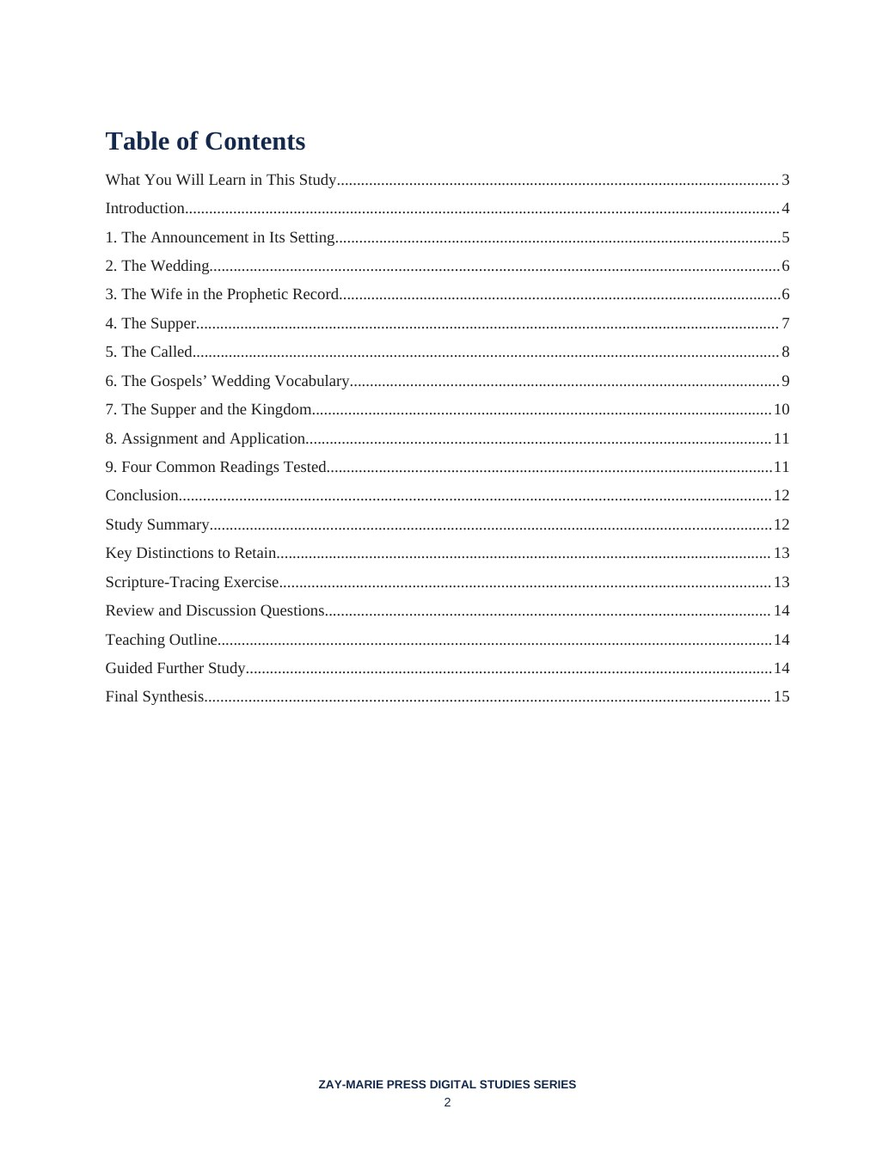
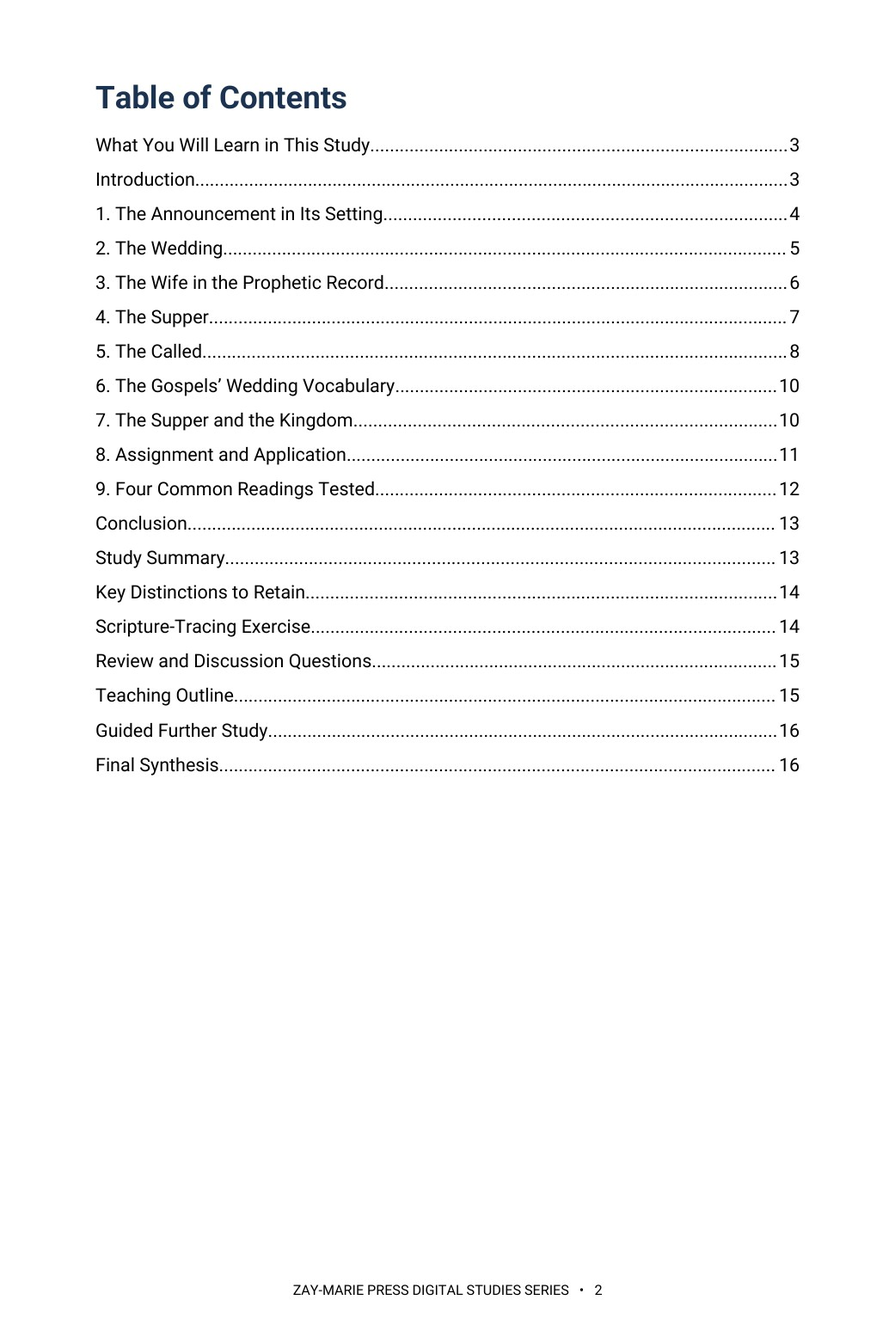
Study 64: rebuilt in Roboto at 10 pt, 17 pages; previews and trackers updated
Interior rebuilt to the current page geometry from the Sep 28 PDF: bulleted
What You Will Learn, five boxed callouts, reader-facing wording, and the
Body-absent-from-Revelation wording in section 5.3 and the Conclusion.
site.js 64:17, page text 17 Pages, previews 2, 3 and 5 re-rendered at
1041x1562. Retrofit Plan v1.86, Audit v1.180, CLAUDE.md pointer updated.

Claude-Session: https://claude.ai/code/session_01HC7bs9KYP2scp4hCL6DkTp

diff --git a/study-64-the-wedding-and-the-wedding-supper.html b/study-64-the-wedding-and-the-wedding-supper.html
@@ -1,13 +1,13 @@
 <!doctype html>
-<html lang="en"><head><meta charset="utf-8"><meta name="viewport" content="width=device-width,initial-scale=1"><title>The Wedding and the Wedding Supper | Zay-Marie Press</title><meta name="description" content="Study 64 examines Revelation 19:6–10 — the announcement of the marriage of the Lamb, the wife, the marriage supper, and those who are called — and asks how the text keeps them distinct. Preview the 16-page digital study."><link rel="stylesheet" href="styles.css?v=20260921-4"><link rel="icon" type="image/png" href="assets/zay-marie-press-favicon.png"><style>
+<html lang="en"><head><meta charset="utf-8"><meta name="viewport" content="width=device-width,initial-scale=1"><title>The Wedding and the Wedding Supper | Zay-Marie Press</title><meta name="description" content="Study 64 examines Revelation 19:6–10 — the announcement of the marriage of the Lamb, the wife, the marriage supper, and those who are called — and asks how the text keeps them distinct. Preview the 17-page digital study."><link rel="stylesheet" href="styles.css?v=20260921-4"><link rel="icon" type="image/png" href="assets/zay-marie-press-favicon.png"><style>
 .study-detail-page{background:#fff;color:#252525}.detail-hero{background:linear-gradient(135deg,#f8f5ec,#e3ece2);padding:58px 0}.detail-hero-grid{display:grid;grid-template-columns:minmax(250px,.72fr) minmax(0,1.28fr);gap:58px;align-items:center}.detail-cover{max-width:390px;margin:auto}.detail-cover img{display:block;width:100%;height:auto;box-shadow:0 14px 36px rgba(8,45,69,.18)}.detail-hero h1{font-size:clamp(2.7rem,5vw,4.7rem);line-height:1.02;margin:8px 0 10px;color:#143823}.detail-subtitle{font-family:Georgia,serif;font-size:1.35rem;font-weight:700;color:#082d45;margin:0 0 7px}.detail-kicker{font-family:Georgia,serif;font-style:italic;font-size:1.05rem;color:#4a4a44;margin:0 0 22px}.detail-copy{font-size:1.08rem;line-height:1.65;max-width:760px}.detail-buyline{display:flex;align-items:center;gap:18px;flex-wrap:wrap;margin-top:25px}.detail-price{font-family:Georgia,serif;font-size:2rem;font-weight:700;color:#143823}.detail-format,.preview-card .page-no{font-family:Arial,sans-serif;font-size:.76rem;font-weight:700;letter-spacing:.1em;text-transform:uppercase;color:#176b3a}.detail-button{display:inline-block;background:#176b3a;color:#fff;padding:13px 22px;font-family:Arial,sans-serif;font-size:.8rem;font-weight:700;letter-spacing:.07em;text-transform:uppercase}.detail-button.pending{opacity:.72;cursor:default}.detail-section{padding:66px 0}.detail-section.soft{background:#f6f7f2}.detail-section.cream{background:#faf8f2}.detail-section h2{color:#143823;margin:6px 0 18px;font-size:clamp(2rem,3.4vw,3rem)}.detail-section .lead{max-width:920px;font-size:1.1rem;line-height:1.62}.study-distinction{max-width:920px;margin-top:28px;margin-bottom:28px;padding:26px 28px;background:#fff;border:1px solid #d8d1bf;border-left:4px solid #b8871c}.study-distinction h3{margin:0 0 10px;color:#143823}.study-distinction p{margin:0 0 14px;line-height:1.62}.study-distinction a{font-family:Arial,sans-serif;font-weight:700;color:#176b3a;text-decoration:none}.study-points{display:grid;grid-template-columns:repeat(3,1fr);gap:18px;margin-top:28px;margin-bottom:28px}.study-point,.scripture-card,.preview-card,.include-item{background:#fff;border:1px solid var(--line);text-align:left}.study-point{border-top:3px solid #176b3a;padding:22px}.study-point h3{color:#143823;margin:0 0 8px;font-size:1.2rem}.study-point p,.scripture-card p,.preview-card p,.include-item p{margin:0;line-height:1.55}.scripture-grid{display:grid;grid-template-columns:repeat(4,1fr);gap:14px;margin-top:24px;margin-bottom:24px}.scripture-card{padding:22px 20px;color:#143823}.scripture-card h3{margin:0 0 9px;font-family:Georgia,serif;font-size:1rem;line-height:1.35}.scripture-card p{font-size:.94rem;color:#45453f}.excerpt{max-width:900px;margin:28px auto;border-left:4px solid #b8871c;padding:10px 0 10px 28px}.excerpt blockquote{font-family:Georgia,serif;font-size:clamp(1.45rem,2.5vw,2rem);line-height:1.45;color:#143823;margin:0 0 16px}.excerpt p{line-height:1.6;margin:0}.preview-grid{display:grid;grid-template-columns:repeat(2,1fr);gap:20px;margin-top:28px;margin-bottom:28px}.preview-card{padding:18px;min-height:210px;box-shadow:0 7px 20px rgba(20,40,25,.05)}.preview-image-link{display:block;margin:0 0 18px}.preview-image-link img{display:block;width:100%;height:auto;border:1px solid #d8d1bf;box-shadow:0 8px 22px rgba(20,40,25,.1);transition:transform .18s ease,box-shadow .18s ease}.preview-image-link:hover img{transform:translateY(-2px);box-shadow:0 11px 28px rgba(20,40,25,.16)}.preview-card h3{color:#143823;margin:8px 0 10px}.preview-instruction{margin:10px 0 0;font-family:Arial,sans-serif;font-size:.78rem;letter-spacing:.04em;color:#5b5b55}.includes-grid{display:grid;grid-template-columns:repeat(4,1fr);gap:14px;margin-top:26px}.include-item{padding:22px 20px;color:#143823}.include-item h3{margin:0 0 9px;font-family:Arial,sans-serif;font-size:.86rem;line-height:1.35;letter-spacing:.02em}.include-item p{font-size:.94rem;color:#45453f}.final-buy{background:#082d45;color:#fff;border-top:4px solid #b8871c;padding:42px 48px;display:grid;grid-template-columns:1fr auto;gap:36px;align-items:center}.final-buy .eyebrow,.final-buy h2,.final-buy .detail-price{color:#fff}.final-buy h2{margin:7px 0 6px}.final-buy p{margin:0}.final-offer{text-align:center}.back-link{display:inline-block;margin-top:18px;color:#143823;font-family:Arial,sans-serif;font-weight:700;text-decoration:none}.preview-lightbox{position:fixed;inset:0;z-index:10000;display:none;align-items:flex-start;justify-content:center;background:rgba(8,22,16,.88);padding:24px;overflow:auto}.preview-lightbox.open{display:flex}.preview-lightbox img{display:block;width:auto;height:auto;max-width:none;box-shadow:0 18px 55px rgba(0,0,0,.4);background:#fff}.preview-lightbox-close{position:fixed;top:18px;right:24px;z-index:10001;width:46px;height:46px;border:1px solid rgba(255,255,255,.65);border-radius:50%;background:rgba(0,0,0,.55);color:#fff;font:32px/1 Arial,sans-serif;cursor:pointer}@media(max-width:900px){.detail-hero-grid{grid-template-columns:1fr;gap:34px}.detail-cover{max-width:330px}.study-points{grid-template-columns:repeat(2,1fr)}.scripture-grid,.includes-grid{grid-template-columns:repeat(2,1fr)}.preview-grid,.final-buy{grid-template-columns:1fr}.final-offer{text-align:left}}@media(max-width:560px){.detail-hero{padding:42px 0}.detail-section{padding:50px 0}.study-points,.scripture-grid,.includes-grid{grid-template-columns:1fr}.final-buy{padding:32px 24px}.detail-buyline{align-items:flex-start;flex-direction:column;gap:8px}.preview-lightbox{padding:58px 10px 24px}.preview-lightbox img{width:100%;max-width:100%;height:auto}} .detail-hero h1{font-size:clamp(2.1rem,4.2vw,3.7rem);line-height:1.08}</style></head><body class="study-detail-page">
-<header class="site-header"><div class="wrap nav"><a class="logo" href="index.html" aria-label="Zay-Marie Press home"><img src="assets/zay-marie-press-logo-hq.png" alt="Zay-Marie Press" width="420" height="238"></a><button class="menu-toggle" type="button" aria-expanded="false" aria-controls="primary-nav">MENU</button><nav aria-label="Primary navigation" class="primary-nav" id="primary-nav"><a href="index.html">HOME</a><a href="books.html">BOOKS</a><a href="series.html">SERIES</a><a class="active" aria-current="page" href="digital-studies.html">DIGITAL STUDIES</a><a href="biblical-hermeneutics-course.html">COURSE</a><a href="about.html">ABOUT</a><a href="resources.html">RESOURCES</a><a href="contact.html">CONTACT</a></nav></div></header><main><section class="detail-hero"><div class="wrap detail-hero-grid"><div class="detail-cover"><picture><source srcset="assets/study-64-cover.webp" type="image/webp"><img src="assets/study-64-cover.jpg" alt="The Wedding and the Wedding Supper cover"></picture></div><div><div class="eyebrow">STUDY 64 · DIGITAL STUDY</div><h1>The Wedding and the Wedding Supper</h1><p class="detail-subtitle">The Lamb’s Wife and Those Called to His Supper</p><p class="detail-kicker">Who is wed, who is called, and what does Revelation 19 announce?</p><p class="detail-copy">Revelation 19 is often sung as a single celebration in which every redeemed person is both bride and guest. Yet the passage names a wedding, a wife, a supper, and a company that is “called,” and it does not use those words interchangeably.</p><p class="detail-copy">This study begins where John does: after Babylon’s fall and before the rider on the white horse. It weighs the words of the announcement, traces the bridal thread through Isaiah, Hosea, and Ezekiel, sets the two suppers of Revelation 19 side by side, and only then asks what may be drawn from the scene, holding to one order throughout: meaning first, assignment second, application third.</p><div class="detail-buyline"><span class="detail-price">$5.99</span><span class="detail-format">Digital PDF · 16 Pages</span><span class="detail-button pending" aria-disabled="true">Checkout Coming Soon</span></div></div></div></section>
+<header class="site-header"><div class="wrap nav"><a class="logo" href="index.html" aria-label="Zay-Marie Press home"><img src="assets/zay-marie-press-logo-hq.png" alt="Zay-Marie Press" width="420" height="238"></a><button class="menu-toggle" type="button" aria-expanded="false" aria-controls="primary-nav">MENU</button><nav aria-label="Primary navigation" class="primary-nav" id="primary-nav"><a href="index.html">HOME</a><a href="books.html">BOOKS</a><a href="series.html">SERIES</a><a class="active" aria-current="page" href="digital-studies.html">DIGITAL STUDIES</a><a href="biblical-hermeneutics-course.html">COURSE</a><a href="about.html">ABOUT</a><a href="resources.html">RESOURCES</a><a href="contact.html">CONTACT</a></nav></div></header><main><section class="detail-hero"><div class="wrap detail-hero-grid"><div class="detail-cover"><picture><source srcset="assets/study-64-cover.webp" type="image/webp"><img src="assets/study-64-cover.jpg" alt="The Wedding and the Wedding Supper cover"></picture></div><div><div class="eyebrow">STUDY 64 · DIGITAL STUDY</div><h1>The Wedding and the Wedding Supper</h1><p class="detail-subtitle">The Lamb’s Wife and Those Called to His Supper</p><p class="detail-kicker">Who is wed, who is called, and what does Revelation 19 announce?</p><p class="detail-copy">Revelation 19 is often sung as a single celebration in which every redeemed person is both bride and guest. Yet the passage names a wedding, a wife, a supper, and a company that is “called,” and it does not use those words interchangeably.</p><p class="detail-copy">This study begins where John does: after Babylon’s fall and before the rider on the white horse. It weighs the words of the announcement, traces the bridal thread through Isaiah, Hosea, and Ezekiel, sets the two suppers of Revelation 19 side by side, and only then asks what may be drawn from the scene, holding to one order throughout: meaning first, assignment second, application third.</p><div class="detail-buyline"><span class="detail-price">$5.99</span><span class="detail-format">Digital PDF · 17 Pages</span><span class="detail-button pending" aria-disabled="true">Checkout Coming Soon</span></div></div></div></section>
 <section class="detail-section"><div class="wrap"><div class="eyebrow">ABOUT THIS STUDY</div><h2>Read the Announcement in Order: Meaning, Assignment, Application</h2><p class="lead">You will read Revelation 19:6–10 as John recorded it: after the judgment of Babylon, before the appearing of Christ, and in the vocabulary of Israel’s prophets. You will follow who is spoken of and who is speaking, weigh the Greek words for “marriage” and “supper,” and compare the two suppers of Revelation 19. You will then set the Gospels’ wedding scenes beside the passage and test four common readings against the text before drawing any application.</p><p class="lead">Readers who already own Study 1 (The Bride of Christ), Study 27 (Israel’s Seven Appointed Feasts), or Study 4 (Israel and the Body of Christ) will recognize adjoining ground. Study 1 traces the bridal theme through Israel’s Scriptures and tests Paul’s marriage imagery in Ephesians 5 and 2 Corinthians 11; this study takes the Bride’s identity as established there and does not argue it again. Study 27 works through the seven appointed feasts of Leviticus 23 and does not treat the marriage supper. Study 4 sets out the broad comparison of Israel and the Body, which this study assumes rather than rebuilds. The parables <a href="parable-08-the-wedding-banquet.html">The Wedding Banquet</a> and <a href="parable-09-the-great-banquet.html">The Great Banquet</a> narrate refused invitations to a feast in story form; this study cites them as parallel banquet images and does not teach them. The question this study alone answers: what does Revelation 19:6–10 announce, who is wed, and who is called to the supper?</p>
 <div class="study-distinction"><h3>How These Studies Relate</h3><p>Study 64 reads one announcement from Revelation. The studies below supply the neighboring ground it deliberately does not repeat.</p><p><a href="study-01-the-bride-of-christ.html">Study 1 — The Bride of Christ</a> Trace where Scripture places bridal language and what Paul’s marriage imagery does; Study 64 takes that identification as given and reads the wedding announcement itself.</p><p><a href="study-27-israels-seven-appointed-feasts.html">Study 27 — Israel’s Seven Appointed Feasts</a> Follow Israel’s covenant calendar; Study 64 reads a Kingdom-threshold banquet that is not one of the Leviticus 23 feasts.</p><p><a href="study-04-israel-and-the-body-of-christ.html">Study 4 — Israel and the Body of Christ</a> Use the larger Israel and Body comparison as the frame within which this scene is assigned.</p><p class="connection-guide-link"><a href="study-connections.html#study-64">Explore the full connection guide for Study 64 →</a></p></div>
 <div class="eyebrow">WHAT YOU’LL STUDY</div><h2>Trace the Announcement Before You Conclude</h2><div class="study-points"><div class="study-point"><h3>The Setting of the Announcement</h3><p>Read Revelation 19:1–10 in its own setting by tracing what precedes it in chapters 17 and 18 and what follows it in 19:11–21 and 20:4–6.</p></div><div class="study-point"><h3>Who Is Spoken Of</h3><p>Trace who is spoken of and who is speaking in 19:7–9 by following the text’s own markers — the third-person “his wife,” the passive “was granted,” and the verb “called.”</p></div><div class="study-point"><h3>Marriage and Supper</h3><p>Weigh the two Greek words behind “marriage” and “supper” (<em>gamos</em> and <em>deipnon</em>) by following each through its other uses in Revelation 19 and the Gospels.</p></div><div class="study-point"><h3>Two Suppers in One Chapter</h3><p>Set the two suppers of Revelation 19 side by side — the marriage supper of the Lamb (19:9) and the supper of the great God (19:17) — and note what each text says about who is present.</p></div><div class="study-point"><h3>The Bridal Thread and the Gospels</h3><p>Follow the bridal thread from Isaiah, Hosea, and Ezekiel into Revelation 21, and test the Gospels’ wedding vocabulary against the same wording in Revelation 19.</p></div><div class="study-point"><h3>Testing Four Readings</h3><p>Apply a repeatable discipline for testing four common readings of the wedding and the supper, and for receiving Revelation’s imagery without transferring its assignment.</p></div></div>
 <div class="eyebrow">KEY SCRIPTURES</div><h2>Read the Word in Its Context</h2><div class="scripture-grid"><div class="scripture-card"><h3>Revelation 18:21–24</h3><p>Babylon’s fall and the silence of the bridegroom’s and the bride’s voice.</p></div><div class="scripture-card"><h3>Revelation 19:1–6</h3><p>Heaven’s Alleluia and the announcement that the Lord God reigns.</p></div><div class="scripture-card"><h3>Revelation 19:7–10</h3><p>The announcement of the marriage, the wife’s linen, the blessing on the called, and John’s worship refused.</p></div><div class="scripture-card"><h3>Revelation 19:11–21</h3><p>The rider on the white horse and the second supper of the chapter.</p></div><div class="scripture-card"><h3>Revelation 21:2, 9–14</h3><p>John’s vision of the city, the bride, and the names on its gates.</p></div><div class="scripture-card"><h3>Isaiah 61:10–62:5</h3><p>Bridegroom and bride imagery in Isaiah’s promises for Zion.</p></div><div class="scripture-card"><h3>John 3:25–30</h3><p>John the Baptist and the friend of the bridegroom.</p></div><div class="scripture-card"><h3>Isaiah 25:6–9</h3><p>A feast on the mountain of the LORD, and the people’s waiting answered.</p></div></div>
 <div class="eyebrow">FROM THE STUDY</div><h2>Setting Before Scene</h2><div class="excerpt"><blockquote>The wedding announcement is read from what surrounds it.</blockquote><p>A harlot is judged before it, a rider is revealed after it, and a reign follows. The scene is settled from its chapter before any single phrase of it is applied.</p></div>
-<div class="eyebrow">A LOOK INSIDE</div><h2>Preview the Study Before You Purchase</h2><p class="preview-instruction">Click any page to enlarge it for reading.</p><div class="preview-grid"><div class="preview-card"><a class="preview-image-link" data-preview-lightbox href="assets/study-64-page-2.jpg"><img src="assets/study-64-page-2.jpg" alt="Study 64 table of contents"></a><div class="page-no">Interior Page 2</div><h3>Table of Contents</h3><p>See the full structure and the passages examined.</p></div><div class="preview-card"><a class="preview-image-link" data-preview-lightbox href="assets/study-64-page-3.jpg"><img src="assets/study-64-page-3.jpg" alt="Study 64 learning outcomes"></a><div class="page-no">Interior Page 3</div><h3>What You Will Learn</h3><p>See the study’s scope and reading procedure.</p></div><div class="preview-card"><a class="preview-image-link" data-preview-lightbox href="assets/study-64-page-5.jpg"><img src="assets/study-64-page-5.jpg" alt="Study 64 the announcement in its setting"></a><div class="page-no">Interior Page 5</div><h3>The Announcement in Its Setting</h3><p>Read what surrounds the announcement before its words are pressed.</p></div></div>
-<div class="eyebrow">WHAT’S INCLUDED</div><h2>A Focused Study of the Wedding and the Supper</h2><div class="includes-grid"><div class="include-item"><h3>16-Page Digital PDF</h3><p>Approved cover and 15-page numbered interior.</p></div><div class="include-item"><h3>9 Teaching Sections</h3><p>A text-driven study from the setting of Revelation 19 to careful application.</p></div><div class="include-item"><h3>Callout Boxes</h3><p>Five callout boxes marking the study’s key working rules.</p></div><div class="include-item"><h3>Comparison Tables</h3><p>Setting markers, the bridal thread, the two suppers, the wife and the called, and four common readings.</p></div><div class="include-item"><h3>Scripture-Tracing Exercise</h3><p>Six guided traces through the passages the study relies on.</p></div><div class="include-item"><h3>Guided Further Study</h3><p>Five passage groups for deeper reading.</p></div><div class="include-item"><h3>Review Questions</h3><p>Eleven questions testing the study’s markers and method.</p></div><div class="include-item"><h3>Final Synthesis Exercise</h3><p>A written synthesis drawing the whole study together.</p></div></div>
-<div class="final-buy"><div><div class="eyebrow">STUDY 64 · DIGITAL STUDY</div><h2>The Wedding and the Wedding Supper</h2><p>16-page digital PDF · For personal use</p></div><div class="final-offer"><div class="detail-price">$5.99</div><span class="detail-button pending" aria-disabled="true">Checkout Coming Soon</span></div></div><a class="back-link" href="digital-studies.html">← Back to All Digital Studies</a></div></section>
+<div class="eyebrow">A LOOK INSIDE</div><h2>Preview the Study Before You Purchase</h2><p class="preview-instruction">Click any page to enlarge it for reading.</p><div class="preview-grid"><div class="preview-card"><a class="preview-image-link" data-preview-lightbox href="assets/study-64-page-2.jpg"><img src="assets/study-64-page-2.jpg" alt="Study 64 table of contents"></a><div class="page-no">Interior Page 2</div><h3>Table of Contents</h3><p>See the full structure and the passages examined.</p></div><div class="preview-card"><a class="preview-image-link" data-preview-lightbox href="assets/study-64-page-3.jpg"><img src="assets/study-64-page-3.jpg" alt="Study 64 learning outcomes"></a><div class="page-no">Interior Page 3</div><h3>What You Will Learn</h3><p>See the study’s scope and reading procedure.</p></div><div class="preview-card"><a class="preview-image-link" data-preview-lightbox href="assets/study-64-page-5.jpg"><img src="assets/study-64-page-5.jpg" alt="Study 64 the markers that set the scene for the announcement"></a><div class="page-no">Interior Page 5</div><h3>The Announcement in Its Setting</h3><p>Read what surrounds the announcement before its words are pressed.</p></div></div>
+<div class="eyebrow">WHAT’S INCLUDED</div><h2>A Focused Study of the Wedding and the Supper</h2><div class="includes-grid"><div class="include-item"><h3>17-Page Digital PDF</h3><p>Approved cover and 16-page numbered interior.</p></div><div class="include-item"><h3>9 Teaching Sections</h3><p>A text-driven study from the setting of Revelation 19 to careful application.</p></div><div class="include-item"><h3>Callout Boxes</h3><p>Five callout boxes marking the study’s key working rules.</p></div><div class="include-item"><h3>Comparison Tables</h3><p>Setting markers, the bridal thread, the two suppers, the wife and the called, and four common readings.</p></div><div class="include-item"><h3>Scripture-Tracing Exercise</h3><p>Six guided traces through the passages the study relies on.</p></div><div class="include-item"><h3>Guided Further Study</h3><p>Five passage groups for deeper reading.</p></div><div class="include-item"><h3>Review Questions</h3><p>Eleven questions testing the study’s markers and method.</p></div><div class="include-item"><h3>Final Synthesis Exercise</h3><p>A written synthesis drawing the whole study together.</p></div></div>
+<div class="final-buy"><div><div class="eyebrow">STUDY 64 · DIGITAL STUDY</div><h2>The Wedding and the Wedding Supper</h2><p>17-page digital PDF · For personal use</p></div><div class="final-offer"><div class="detail-price">$5.99</div><span class="detail-button pending" aria-disabled="true">Checkout Coming Soon</span></div></div><a class="back-link" href="digital-studies.html">← Back to All Digital Studies</a></div></section>
 </main><div class="preview-lightbox" id="preview-lightbox" role="dialog" aria-modal="true" aria-label="Expanded study preview"><button class="preview-lightbox-close" type="button" aria-label="Close preview">×</button><img id="preview-lightbox-image" alt=""></div><footer class="site-footer"><div class="wrap footer-grid"><div class="footer-about"><h3>Zay-Marie Press</h3><p class="footer-tagline"><em>Where the Bible Means What It Says.</em></p><p>Zay-Marie Press is a Christian theological publisher dedicated to producing doctrinally precise, carefully structured biblical resources that equip pastors, teachers, and serious students with clarity, depth, and Scripture-anchored truth.</p><p><a href="https://zaymariepress.com">zaymariepress.com</a><br><a href="mailto:info@zaymariepress.com">info@zaymariepress.com</a></p></div><div class="footer-column"><h3>Explore</h3><div class="footer-links-stacked"><a href="books.html">Books</a><br><a href="series.html">Series</a><br><a href="biblical-hermeneutics-course.html">Course</a><br><a href="digital-studies.html">Digital Studies</a><br><a href="resources.html">Resources</a><br><a href="bible-book-summaries.html">Bible Book Summaries</a><br><a href="doctrinal-packets.html">Doctrinal Packets</a><br><a href="historical-drift.html">Historical Drift</a><br><a href="about.html">About</a><br><a href="contact.html">Contact</a></div></div><div class="footer-column"><h3>Reader Support</h3><div class="footer-links-stacked"><a href="reader-support.html#faq">FAQ</a><br><a href="reader-support.html#shipping-returns">Shipping &amp; Returns</a><br><a href="reader-support.html#digital-downloads">Digital Downloads</a><br><a href="reader-support.html#contact-support">Contact Support</a></div></div><div class="footer-column"><h3>Acts Overlap</h3><p><strong>Acts Overlap Theology Series</strong></p><p><em>Two Distinct Streams. One Overlap.</em></p><p><a href="series.html">Series Overview</a></p></div></div><div class="wrap footer-bottom">© 2026 Zay-Marie Press. All rights reserved.</div></footer><script src="site.js"></script><script>const lightbox=document.getElementById('preview-lightbox'),lightboxImage=document.getElementById('preview-lightbox-image'),closeLightbox=()=>{lightbox.classList.remove('open');lightboxImage.src='';};document.querySelectorAll('[data-preview-lightbox]').forEach(link=>link.addEventListener('click',event=>{event.preventDefault();lightboxImage.src=link.href;lightboxImage.alt=link.querySelector('img').alt;lightbox.classList.add('open');}));document.querySelector('.preview-lightbox-close').addEventListener('click',closeLightbox);lightbox.addEventListener('click',event=>{if(event.target===lightbox)closeLightbox();});document.addEventListener('keydown',event=>{if(event.key==='Escape')closeLightbox();});</script></body></html>

diff --git a/site.js b/site.js
@@ -62,7 +62,7 @@ const resourceModal=document.querySelector('#resource-modal'), resourceModalTitl
 if(resourceModal&&resourceModalTriggers.length){const closeResourceModal=()=>{resourceModal.hidden=true;document.body.classList.remove('resource-modal-open');lastResourceTrigger?.focus();};resourceModalTriggers.forEach(trigger=>trigger.addEventListener('click',()=>{lastResourceTrigger=trigger;if(resourceModalTitle)resourceModalTitle.textContent=trigger.dataset.title||'Resource';if(resourceModalDescription)resourceModalDescription.textContent=trigger.dataset.description||'';if(resourceModalLink){resourceModalLink.href=trigger.dataset.href||'#';resourceModalLink.textContent=trigger.dataset.linkText||'OPEN RESOURCE';}resourceModal.hidden=false;document.body.classList.add('resource-modal-open');resourceModalClose?.focus();}));resourceModalClose?.addEventListener('click',closeResourceModal);resourceModal.addEventListener('click',e=>{if(e.target===resourceModal)closeResourceModal();});document.addEventListener('keydown',e=>{if(e.key==='Escape'&&!resourceModal.hidden)closeResourceModal();});}
 
 /* Display the verified final-PDF page count at the primary purchase decision point. */
-const digitalStudyPageCounts={1:17,2:19,3:16,4:18,5:16,6:16,7:14,8:13,9:16,10:20,11:15,12:15,13:19,14:15,15:15,16:16,17:18,18:18,19:16,20:16,21:17,22:16,23:14,24:16,25:17,26:16,27:16,28:16,29:19,30:17,31:18,32:19,33:18,34:16,35:16,36:16,37:16,38:16,39:16,40:16,41:16,42:17,43:17,44:19,45:19,46:20,47:19,48:18,49:20,50:19,51:20,52:19,53:19,54:17,55:20,56:20,57:20,58:19,59:20,60:15,61:16,62:18,63:17,64:16,65:16,66:16,67:16,68:16,69:16,70:16,71:16};
+const digitalStudyPageCounts={1:17,2:19,3:16,4:18,5:16,6:16,7:14,8:13,9:16,10:20,11:15,12:15,13:19,14:15,15:15,16:16,17:18,18:18,19:16,20:16,21:17,22:16,23:14,24:16,25:17,26:16,27:16,28:16,29:19,30:17,31:18,32:19,33:18,34:16,35:16,36:16,37:16,38:16,39:16,40:16,41:16,42:17,43:17,44:19,45:19,46:20,47:19,48:18,49:20,50:19,51:20,52:19,53:19,54:17,55:20,56:20,57:20,58:19,59:20,60:15,61:16,62:18,63:17,64:17,65:16,66:16,67:16,68:16,69:16,70:16,71:16};
 const digitalStudyMatch=window.location.pathname.match(/\/study-(\d+)-/i);
 const digitalStudyFormat=document.querySelector('.detail-hero .detail-format');
 if(digitalStudyMatch&&digitalStudyFormat){const studyNumber=Number(digitalStudyMatch[1]),pageCount=digitalStudyPageCounts[studyNumber];if(pageCount)digitalStudyFormat.textContent=`Digital PDF · ${pageCount} Pages`;}

diff --git a/CLAUDE.md b/CLAUDE.md
@@ -23,7 +23,7 @@ These are kept in the repo at `controlling-documents/` and are the current versi
 - As of v1.50 (publisher directive, 2026-10-03), the **What You Will Learn in This Study** section is always bulleted, never set as running paragraphs, written into this file in the same pass (Master Standard Section 3 item 4, Section 6 structure line, Section 22): a list of bullet points, each describing one process, textual marker or interpretive discipline the reader will practice (Section 17 still governs what they may say); at most one short lead-in line may stand above the bullets (for example, “By the end of this study, you should be able to:”); the Study Goal callout and the Study Outline keep their own forms. It governs every new study and every study rebuilt or retrofitted from now on; earlier studies take it when reopened or when the publisher directs. In every study check (Step 1), report whether the section is bulleted. First applied to Study 43.
 **`controlling-documents/Digital_Studies_Relationship_Map_v1.39.md`** — records each study's distinct subject, its related studies, the eight priced six-study collections, the Paul's Missionary Journeys cross-reference map, and the five primary catalog categories (currently version 1.39, covers Studies 1–71; update it as new studies publish, bump the version number, rename the file to match, and log the change in its own version-history table — mirroring the Master Standard's `_vX.Y` filename convention). Check a proposed topic against it before recommending or writing a new study. (2026-09-28: the file was missing from this repo despite this note referencing it; replaced from the publisher's copy and bumped v1.15→v1.25 in the same pass. If this note ever again points to a version not present under `controlling-documents/`, ask the publisher for a copy rather than proceeding without the check.)
 - **`controlling-documents/Digital_Studies_Category_Standard_v1.1.md`** — FINAL and binding (publisher, 2026-10-01): the rules for the five primary catalog categories (Foundations, Israel & Prophecy, Body of Christ, Passages, Doctrinal Themes), the ordered decision procedure for new studies, the precedents, all 71 fixed assignments, and the cover-label form for each category. Read it before placing any card or cover label. Do not ask the publisher where a study belongs; apply the procedure and state the result. Only the publisher changes a ruling; then bump this Standard's version and filename, re-letter the cover, and update the Relationship Map.
-- **`controlling-documents/Doctrinal_Upgrade_Retrofit_Plan_v1.85.md`** — working tracker for retrofitting Studies 1–59 to the 2026-10-02 doctrinal upgrade (Framework/PAM v1.1, Master Standard v1.40, Rules 7–17): withdrawn-wording search keys, impact tiers, waves and the per-study method. Read it before continuing the retrofit in any session; update status, bump the version and rename the file as work proceeds.
+- **`controlling-documents/Doctrinal_Upgrade_Retrofit_Plan_v1.86.md`** — working tracker for retrofitting Studies 1–59 to the 2026-10-02 doctrinal upgrade (Framework/PAM v1.1, Master Standard v1.40, Rules 7–17): withdrawn-wording search keys, impact tiers, waves and the per-study method. Read it before continuing the retrofit in any session; update status, bump the version and rename the file as work proceeds.
 - **`controlling-documents/Doctrinal_Packet_Standard_v0.3.md`** — Doctrinal Packet Standard (DRAFT; §7 approved). Governs the separate Doctrinal Packets product strand (5-page interpretive PDFs per Bible book — a print-friendly cover as page 1 plus 4 content pages, $2.99, KJV, pilot: Genesis, live at `packet-genesis.html`, hub `doctrinal-packets.html`; site pages say "5 Pages", cover styles live in `packets.css`, Old Testament blue and New Testament soft pale green, hub listed in Bible order). **Preview rule (publisher directive, 2026-09-29, packets only):** previews show about one page's worth in two cropped views (top of page 1 through the anchor texts; the chart section) — never the exegesis, architecture, Mystery contrast, logic chain, outline, or closing. Master Standard §16/§17 still govern Digital Studies. Bump the version and rename the file as the Standard is finalized.
 - **`controlling-documents/Preview_Page_Spoiler_Retrofit_Audit_v1.4.md`** — working tracker for the Studies 1–60 preview-page conclusion-spoiler retrofit (see the section below). Read it before continuing that audit in any session; update its status fields and changelog, bump the version, and rename the file to match as the audit proceeds — same `_vX.Y` convention as the other controlling documents. As of v1.1, the website-side half was DONE: all 60 studies' "What You'll Study" text was judged against the rule (methodology documented in the file) and 22 points across 11 studies were rewritten and pushed; an unrelated Study 22 content bug (Study 21's content had leaked into it) was also found and fixed. As of v1.2, the publisher supplied Studies 1–60's interior production PDFs and the interior-PDF half was also surveyed (read-only): 10 studies (37, 41, 45, 47, 48, 49, 51, 52, 53, 54) were found to have at least one interior "What You Will Learn" violation, 50 studies were confirmed compliant, and the orphaned `assets/study-45-sanctification-under-grace.docx` (removed from the repo per the publisher in v1.0) was confirmed word-for-word identical to Study 45's actual production interior PDF content. As of v1.3, the publisher supplied editable DOCX sources for all 10 violating studies; all 15 violating points were rewritten and approved, delivered as corrected final PDFs, and — along the way — a second defect was found and fixed (Studies 47 and 48's source DOCX still had an unintegrated cover placeholder despite both being long-published live with real covers; fixed by inserting the existing approved cover art). The website's "What You Will Learn" preview image (`study-NN-page-3.jpg`) was regenerated from the corrected content for all 10 studies and pushed to `main` (commit `cea1859`), verified against a fresh clone. **The website side of this audit is now fully compliant for all 60 studies.** Outstanding: the publisher's purchasable interior PDF files themselves have corrected versions delivered, but distribution to existing purchasers was decided by the publisher on 2026-09-29: silent swap of the files behind the existing downloads, no reissue notice (recorded in the v1.4 changelog entry; the product files are not in this repo).
 

diff --git a/controlling-documents/Doctrinal_Upgrade_Retrofit_Plan_v1.86.md b/controlling-documents/Doctrinal_Upgrade_Retrofit_Plan_v1.86.md
@@ -178,3 +178,4 @@ Working tracker for correcting published studies to the Framework/PAM v1.1, Mast
 - v1.83 (2026-10-03): Study 51 publisher rulings: KJV tables approved as drafted; Romans 4:9–12 wording (sign never the ground of righteousness, plus the Galatians 3 sentence) approved; Titus 1:10 given the letter-form audience-marker line in Guided Further Study Group 2. Final PDF/DOCX re-issued (20 pages; only page 19 changed; previews 2, 3, 6 unchanged, no website asset change).
 - v1.84 (2026-10-03): Study 62 rebuilt in Roboto at 10 pt on the current page from the older Letter-size DOCX (no approved FINAL supplied), 18 pages (cover plus 17; was 16). Changes: What You Will Learn set as bullets under one lead-in (the closing line removed; 'assignment markers' to 'audience markers'); six callout paragraphs reduced to five (Setting Before Sentence became a run-in); 'controlling framework' to 'controlling questions'; Ephesians 2:15 given the standing 'abolished for the Body' wording and 'Brought near is not made Israel'; reader-facing passage lines for Romans 6:14 and Galatians 3:24–25, Romans 15:8 and Galatians 4:4, Romans 3:21–22 and 10:4, and a letter line for 2 Timothy 3:16; three drafted KJV tables (Matt 5:17–20; Luke 16:16–17 with Matt 24:34–35; Rom 6:14, Gal 3:24–25, Eph 2:15); Teaching Outline typed 1–7; one table spacer. Live previews re-rendered (2, 3, 4; page 5 removed); page text 18 Pages / 18-Page Digital PDF / 17-page numbered interior.
 - v1.85 (2026-10-03): Study 63 rebuilt in Roboto at 10 pt on the current page from the publisher's Sep 28 PDF (no DOCX or approved FINAL supplied; text taken from the PDF word for word), 17 pages (cover plus 16; was 16). Changes: What You Will Learn set as bullets under one lead-in (the two-sentence intro and the closing line removed; bullet 6 reworded to a process line); six callouts reduced to five (Word Evidence, Not Word Alone became a run-in); 'controlling framework' to 'controlling questions'; Teaching Outline typed 1–8; lead-in lines kept with their tables; no KJV table added (not requested). Live previews re-rendered (2, 3, 5); page text 17 Pages / 17-page digital PDF.
+- v1.86 (2026-10-03): Study 64 rebuilt in Roboto at 10 pt on the current page from the publisher's Sep 28 PDF (no DOCX or approved FINAL supplied; text taken from the PDF word for word), 17 pages (cover plus 16; was 16). Changes: What You Will Learn set as bullets under one lead-in (the two-sentence intro and the closing line removed; bullet 6 reworded to a process line); eight callouts reduced to five (Setting Before Scene, Word Evidence and A Scene at the Threshold became run-ins); reader-facing wording ('the governing framework of this series' and 'Within this series’ framework … classified there' removed; 'controlling framework' to 'controlling questions'); the Sep 28 neutral stance on the Body's presence at the supper ('neither affirms nor denies') replaced with the standing ruling that the Body of Christ does not appear in Revelation's prophetic scenes (section 5.3 and the Conclusion); 'kekleimenoi' corrected to 'keklēmenoi'; Teaching Outline typed 1–8; lead-in lines kept with their tables; cover from the repo (ISRAEL, PROPHECY & COVENANTS); no KJV table added. The guest classification (those invited to witness the wife's union) remains the publisher's 2026-09-28 directive for this study. Live previews re-rendered (2, 3, 5); page text 17 Pages / 17-page digital PDF / 16-page numbered interior.

diff --git a/controlling-documents/Digital_Studies_PAM_Audit_v1.180.md b/controlling-documents/Digital_Studies_PAM_Audit_v1.180.md
@@ -409,3 +409,4 @@ Study 15 PDF not yet supplied. Typography: none of Studies 2, 3, 6, 8 is in EB G
 - v1.177 (2026-10-03): Study 51 publisher rulings recorded (see Retrofit Plan v1.83).
 - v1.178 (2026-10-03): Study 62 rebuilt in Roboto at 10 pt, 18 pages (see Retrofit Plan v1.84).
 - v1.179 (2026-10-03): Study 63 rebuilt in Roboto at 10 pt, 17 pages (see Retrofit Plan v1.85).
+- v1.180 (2026-10-03): Study 64 rebuilt in Roboto at 10 pt, 17 pages; Body-absent-from-Revelation wording applied (see Retrofit Plan v1.86).
